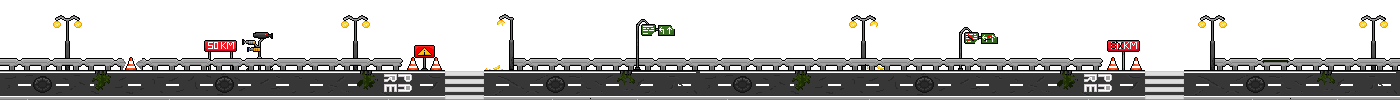
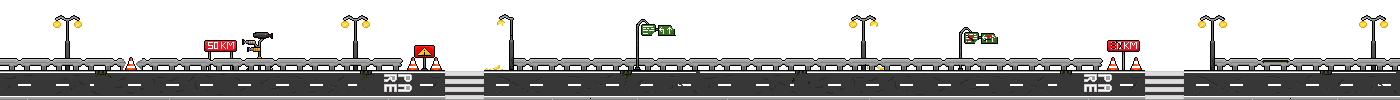
feat: scale area jogo de acordo com a tela

diff --git a/assets/js/comecarJogo.js b/assets/js/comecarJogo.js
@@ -14,6 +14,7 @@ import { arrayPontosExtras, colisorPontosExtras } from "./pontosExtras/colisorPo
 import { randomizerPontosExtras } from "./pontosExtras/randomizerPontosExtras.js";
 import { spritesPassarinho, spritesPomba } from "./obstaculos/spritesObstaculos.js";
 import { spritesCereja } from "./pontosExtras/cereja.js";
+import { resetPowerUpMessage } from "./mensagemPosGameOver.js";
 
 
 const buttonComecarJogo = document.querySelectorAll(".buttonStart");
@@ -76,6 +77,7 @@ function comecarJogo(){
   areaJogo.style.animation = "backgroundCarro 500s infinite, backgroundCarro 500s infinite";
   // Reseta pontuação
   ResetaPontos();
+  resetPowerUpMessage();
 
   // Começa os intervalos de checagem de colisão;
   intervaloChecarColisaoObstaculo = setInterval(colisorObstaculos, 10);
@@ -103,6 +105,8 @@ function removeEstilosPowerup(){
   removeEstilosOnibus();
   removeEstilosCaminhada();
 }
+
+
 
 export {loopSpritesPassarinho, loopSpritesCereja, loopSpritesPowerupCarroEletrico, loopSpritesPomba, setJogoEmExecucao, jogoEmExecucao, intervaloChecarColisaoObstaculo, intervaloChecarColisaoPowerup, intervaloChecarColisaoPontosExtras, intervaloPontuacao, areaJogo};
 

diff --git a/assets/css/areaJogo.css b/assets/css/areaJogo.css
@@ -2,8 +2,8 @@ body{
 	position: relative;
 	background: #A1AAAA;
 	display: flex;
-    align-items: flex-start;
-    justify-content: flex-start;
+    align-items: center;
+    justify-content: center;
     height: 100vh;
 }
 
@@ -11,7 +11,8 @@ body{
 .areajogo1{
 	display: none;
     width: 100%;
-	height: 60vh !important;;
+	max-width: 1024px;
+	height: 500px;
 	position: relative;
 	overflow: hidden;
     background: url(../img/chãoCidadeSuja.png), url(../img/cidadePoluidaBackground.jpg);
@@ -21,6 +22,10 @@ body{
 	animation: backgroundCarro 500s infinite, backgroundCarro 500s infinite; 
 	z-index: -2;
 }
+
+
+
+
 
 .areaJogoCidadeLimpa{
 	width: 100%;
@@ -86,6 +91,8 @@ body{
 	height: 20px;
 	transition: width 1s linear;
 	background: gold;
+	border-top: 2px solid black;
+	border-bottom: 2px solid black;
 }
 
 

diff --git a/index.html b/index.html
@@ -3,7 +3,6 @@
 <head>
     <meta charset="UTF-8">
     <meta http-equiv="X-UA-Compatible" content="IE=edge">
-    <meta name="viewport" content="width=device-width, initial-scale=1.0">
     <link rel="stylesheet" href="./assets/css/reset.css">
     <link rel="stylesheet" href="./assets/css/areaJogo.css">
     <link rel="stylesheet" href="./assets/css/menu.css">
@@ -330,5 +329,6 @@
 <script type="module" src="./assets/js/pontosExtras/colisorPontosExtras.js"></script>
 <script type="module" src="./assets/js/formulario/formulario.js"></script>
 <script type="module" src="./assets/js/mensagemPosGameOver.js"></script>
+<script type="module" src="./assets/js/scaleAreaJogo.js"></script>
 <script src="./assets/js/menu/creditos.js"></script>
 

diff --git a/assets/js/powerUps/caminhada.js b/assets/js/powerUps/caminhada.js
@@ -5,6 +5,7 @@ import { animacaoPowerUp, setPlayerTemPowerUp } from "./animacaoPowerup.js";
 import { randomizerPowerups } from "./randomizerPowerups.js";
 import { limpaSprites } from "../player/sprites.js";
 import { quantidadePowerUp, setPenultimoPowerUpString, setQuantidadePowerUp, setUltimoPowerUpString, ultimoPowerUpString } from "../mensagemPosGameOver.js";
+import { setBottom, setBottomMarginVeiculo } from "../player/movimentacao.js";
 
 const powerUpCaminhada = document.querySelector(".powerUp--caminhada");
 let playerTemCaminhada;

diff --git a/assets/js/mensagemPosGameOver.js b/assets/js/mensagemPosGameOver.js
@@ -36,5 +36,11 @@ function setPenultimoPowerUpString(value){
     penultimoPowerUpString = value;
 }
 
-export { mensagemPosGameOver, setQuantidadePowerUp, quantidadePowerUp, setUltimoPowerUpString, ultimoPowerUpString, setPenultimoPowerUpString }
+function resetPowerUpMessage(){
+    quantidadePowerUp = 0
+    ultimoPowerUpString = "a"
+    penultimoPowerUpString = "b"
+}
+
+export { mensagemPosGameOver, setQuantidadePowerUp, quantidadePowerUp, setUltimoPowerUpString, ultimoPowerUpString, setPenultimoPowerUpString, resetPowerUpMessage }
 

diff --git a/assets/js/scaleAreaJogo.js b/assets/js/scaleAreaJogo.js
@@ -1,0 +1,14 @@
+const areaJogo = document.querySelector(".areajogo1");
+
+window.addEventListener('DOMContentLoaded', () => {
+    let scale = Math.min(
+        window.innerWidth / 1024,
+        window.innerHeight / 500
+    )
+
+    areaJogo.style.transform = `scale(${scale})`
+})
+
+window.addEventListener('resize', () => {
+    areaJogo.style.transform = `scale(${scale})`
+})

diff --git a/assets/js/obstaculos/colisorObstaculos.js b/assets/js/obstaculos/colisorObstaculos.js
@@ -37,7 +37,7 @@ function colisorObstaculos(){
       playerEstaColidindo = 
       (arrayObstaculos[randomNumObstaculo].offsetLeft < (posicaoPlayerLeft + comprimentoPlayer) 
       && arrayObstaculos[randomNumObstaculo].offsetLeft > (posicaoPlayerLeft - 50) 
-      && posicaoPlayerBottom > 60);
+      && posicaoPlayerBottom < 70);
     }
     else{
       playerEstaColidindo = 

diff --git a/assets/css/obstaculos/obstaculos.css b/assets/css/obstaculos/obstaculos.css
@@ -7,7 +7,7 @@
 }
 
 .pomba, .passarinho{
-	bottom: 100px;
+	bottom: 40px;
 }
 
 .hidrante img{
